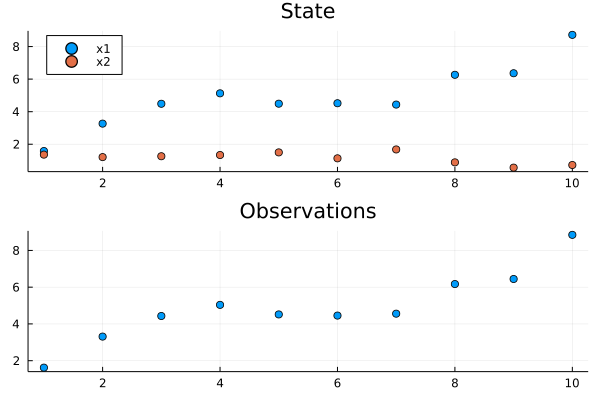
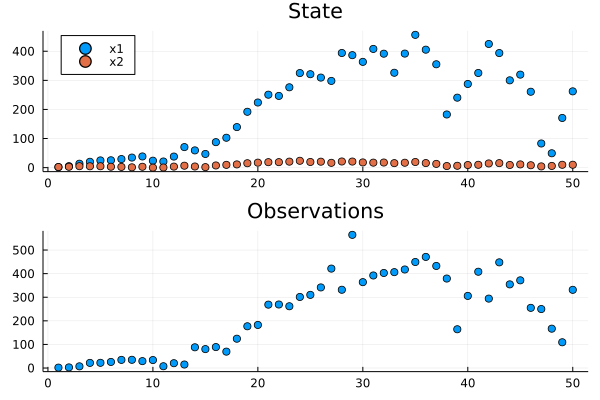
Update README

diff --git a/README.md b/README.md
@@ -2,7 +2,7 @@
 
 [![Coverage](https://codecov.io/gh/SebastianCallh/STSlib.jl/branch/master/graph/badge.svg)](https://codecov.io/gh/SebastianCallh/STSlib.jl)
 
-STSlib.jl provides primitives for constructing structural time series models (STSs). 
+STSlib.jl is a library for structural time series (STS) primitives.
 An STS is a model in which we can encode prior information,
 such as trends and seasonality, which can then be projected into the future to make forecasts.
 In a nutshell, this package contains functionality 
@@ -32,43 +32,54 @@ This section showcases package functionality with some code snippets.
 
 ## Basics
 
-We can construct a model and call it to get the observation matrix `H`, transition matrix `F` and transition noise covariance matrix `Q`.
-Below, we create a `LocalLinear` model and generate its matrices for a given timestep.
+When using this package you most likely want to start with creating an STS model. You can then use the functions `transition` to map state $x_t$ to $x_{t+1}$ and `observe` to map $x_t$ to $y_t$.
+Both of these functions are available both as deterministic or probabilistic (assuming Gaussian variables) versions.
+Below, we create a `LocalLinear` model and compute future states and observations.
 
 ```julia
-using STSlib, GaussianDistributions, Random
+using STSlib, Random, LinearAlgebra, Plots
 
-level_drift_scale = 1
+level_drift_scale = 1.
 slope_drift_scale = 0.5
 sts = LocalLinear(level_drift_scale, slope_drift_scale)
-timestep = 1 
-H, F, Q = sts(timestep)
+x₀ = [1., 1.]
+x₁ = transition(sts, x₀)
 ```
 
-These can be used to simulate observations deterministically
+For probabilistic transitions simply pass the covariance matric $P$ as an additional argument.
 
 ```julia
-x0 = [1., 1.] # initial state
-x1 = F*x0     # state transition 
-y1  = H*x1    # emit new observation
+x₀ = [1., 1.]
+P₀ = diagm(ones(length(x₀)))
+x₁, P₁ = transition(sts, x₀, P₀)
 ```
 
-or stochastically (assuming Gaussian transition noise)
+Some components depend on the current time step $t$, like the `Seasonal` one.
 
 ```julia
-x0 = [1., 1.]                # initial state
-x1 = rand(Gaussian(F*x0, Q)) # state transition 
-y1  = F*x1                   # emit new observation
+num_seasons = 4
+season_length = 1
+drift_scale = 0.5
+sts = Seasonal(num_seasons, season_length, drift_scale)
+x₀ = ones(num_seasons)
+t = 1
+x₁ = transition(sts, x₀, t)
 ```
 
-For convenience the package provides a `simulate` function which can be used to do this iteratively.
+Prhaps you want to compute many future states all at once. 
+To this end the package exposes the `simulate` function which will roll out future states and observations given a (probabilistic) initial state.
 
 ```julia
 Random.seed!(1234)
-x0 = [1., 1.]  # initial state
-Σ = [0.01;;]   # observation noise covariance
-T = 10         # number of steps to simulate
-xs, ys = simulate(sts, T, x0, Σ)
+level_drift_scale = 1.
+slope_drift_scale = 0.5
+sts = LocalLinear(level_drift_scale, slope_drift_scale)
+
+x₀ = [1., 1.]       # initial state mean
+P₀ = [1. 0.; 0. 1.] # initial state covariance
+σ = 0.01            # observation noise
+steps = 50          # number of steps to simulate
+xs, ys = simulate(sts, steps, x₀, P₀, σ)
 
 labels = reshape(["x$i" for i in 1:size(xs, 1)], 1, :)
 x_plt = scatter(xs', label=labels, title="State", legend=:topleft)
@@ -76,7 +87,7 @@ y_plt = scatter(ys', label=nothing, title="Observations")
 plot(x_plt, y_plt, layout=(2, 1))
 ```
 
-![thing](figures/loclin.png)
+![loclin](figures/loclin.png)
 
 ## Composition
 We are also able to compose components into larger components.
@@ -84,7 +95,7 @@ For instance, we create an additive STS model with a local linear component and 
 
 ```julia
 Random.seed!(1234)
-level_drift_scale = 1
+level_drift_scale = .1
 slope_drift_scale = 0.5
 num_seasons = 4
 season_length = 3
@@ -93,17 +104,18 @@ sts = Seasonal(num_seasons, season_length, season_drift_scale) +
   LocalLinear(level_drift_scale, slope_drift_scale)
 
 # simulate as usual
-x0 = [10., 20., -10., -20, 1., 1.]
-Σ = [0.01;;]
+x₀ = [10., 20., -10., -20, 1., 1.]
+P₀ = diagm(ones(length(x₀)))
+σ = 0.01
 num_occurences = 5
 seasons = repeat(collect(1:num_seasons), inner=season_length, outer=num_occurences)
-T = length(seasons)
-xs, ys = simulate(sts, T, x0, Σ)
+steps = length(seasons)
+xs, ys = simulate(sts, steps, x₀, P₀, σ)
 
 labels = reshape(["x$i" for i in 1:size(xs, 1)], 1, :)
-x_plt = scatter(xs', label=labels, title="State", legend=:topleft)
+x_plt = scatter(xs', label=labels, title="State", legend=:bottomleft)
 y_plt = scatter(ys', color=seasons, label=nothing, title="Observations")
 plot(x_plt, y_plt, layout=(2, 1), size=(600, 600))
 ```
 
-![thing](figures/loclin_seasonal.png)
+![loclin_seasonal](figures/loclin_seasonal.png)
